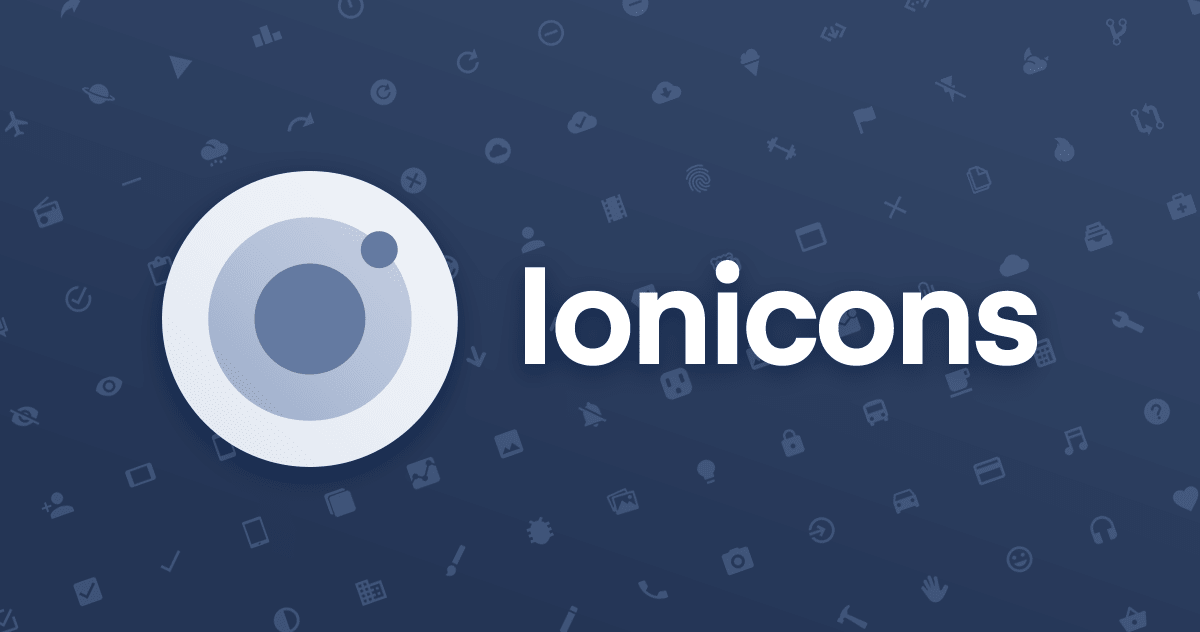
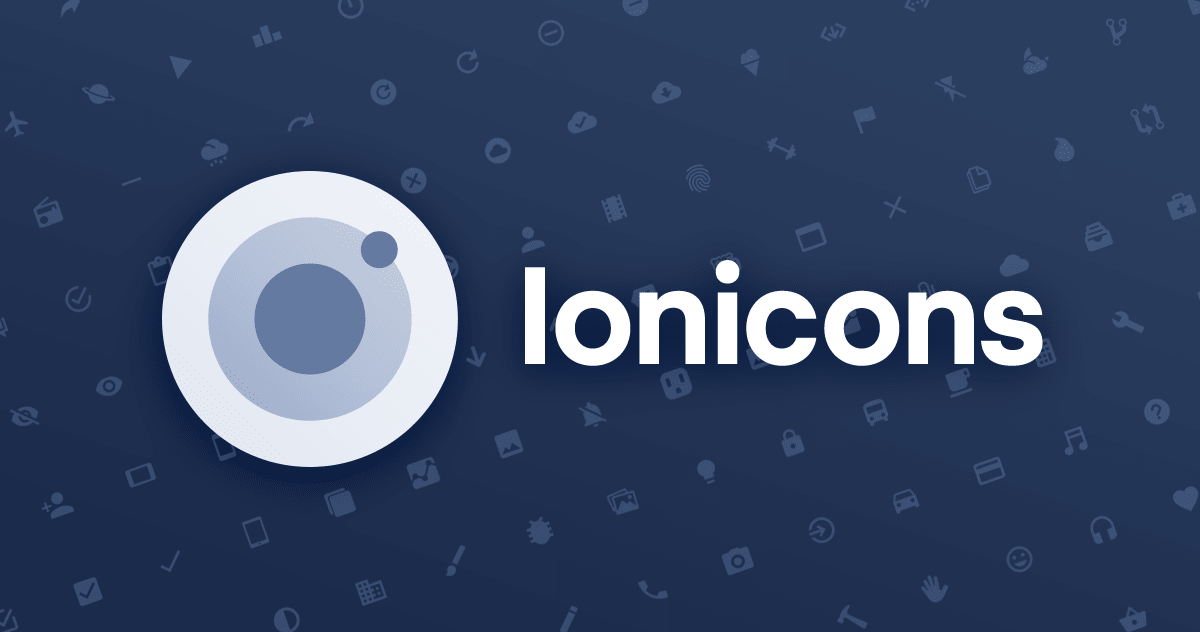
Update OG image

Changed region(s): [[0.6783, 0.4509, 0.8942, 0.5712]]

diff --git a/src/docs/site/index.html b/src/docs/site/index.html
@@ -16,7 +16,7 @@
   <meta property="og:type" content="website" />
   <meta property="og:url" content="https://ionicons.com/" />
   <meta property="og:image" content="/assets/img/meta/ionicons-og-image.png" />
-  <meta name="twitter:card" content="summary" />
+  <meta name="twitter:card" content="summary_large_image" />
   <meta name="twitter:creator" content="@ionicframework" />
 
   <link rel="apple-touch-icon" sizes="57x57" href="/assets/img/meta/apple-icon-57x57.png">
